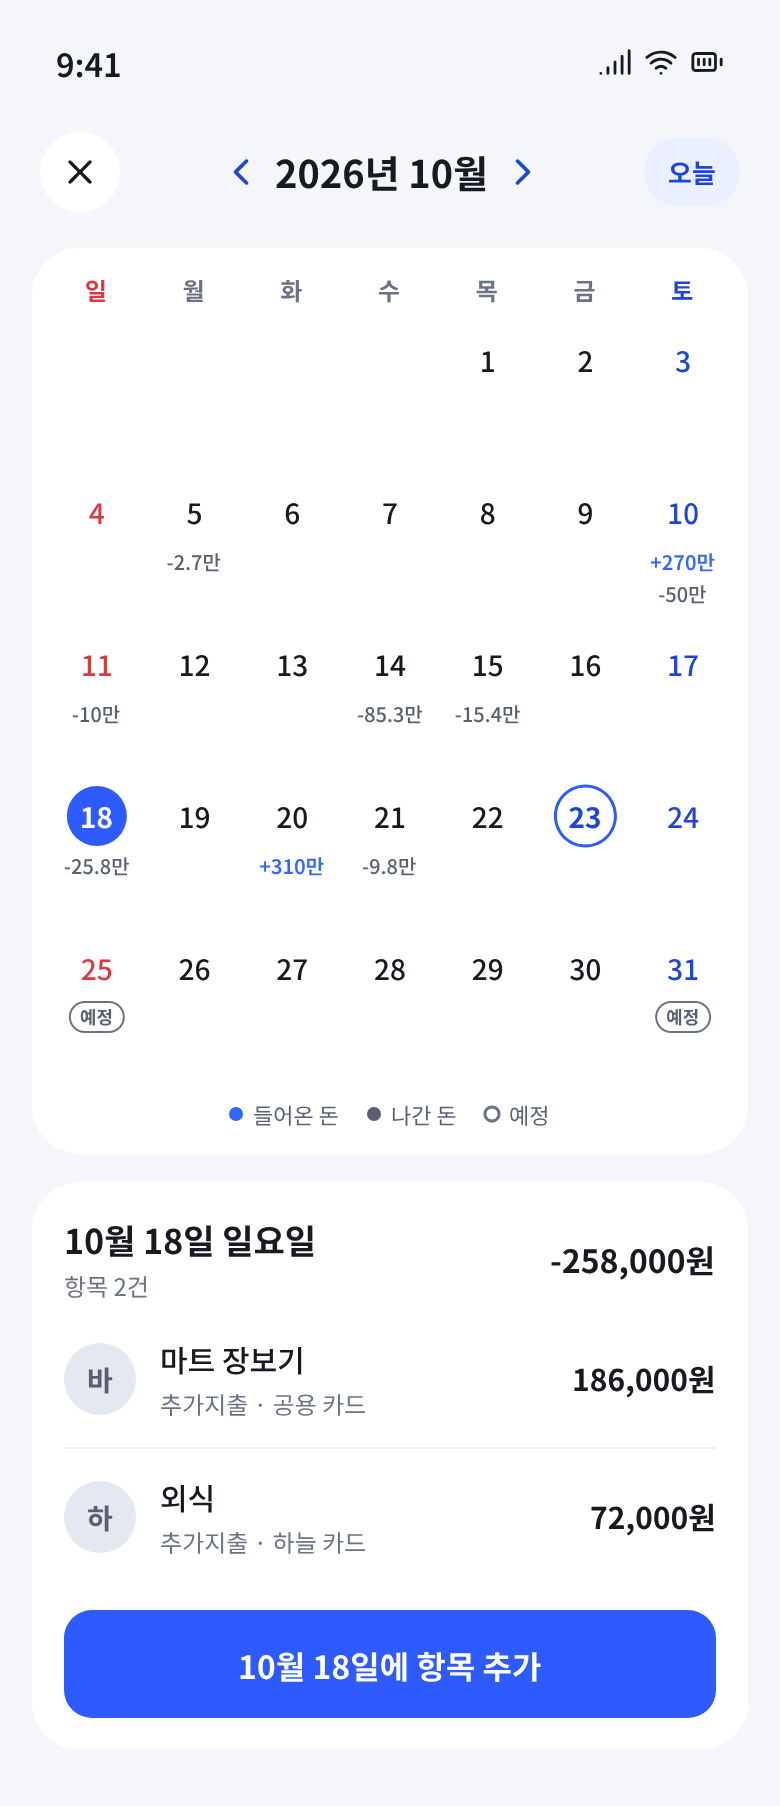
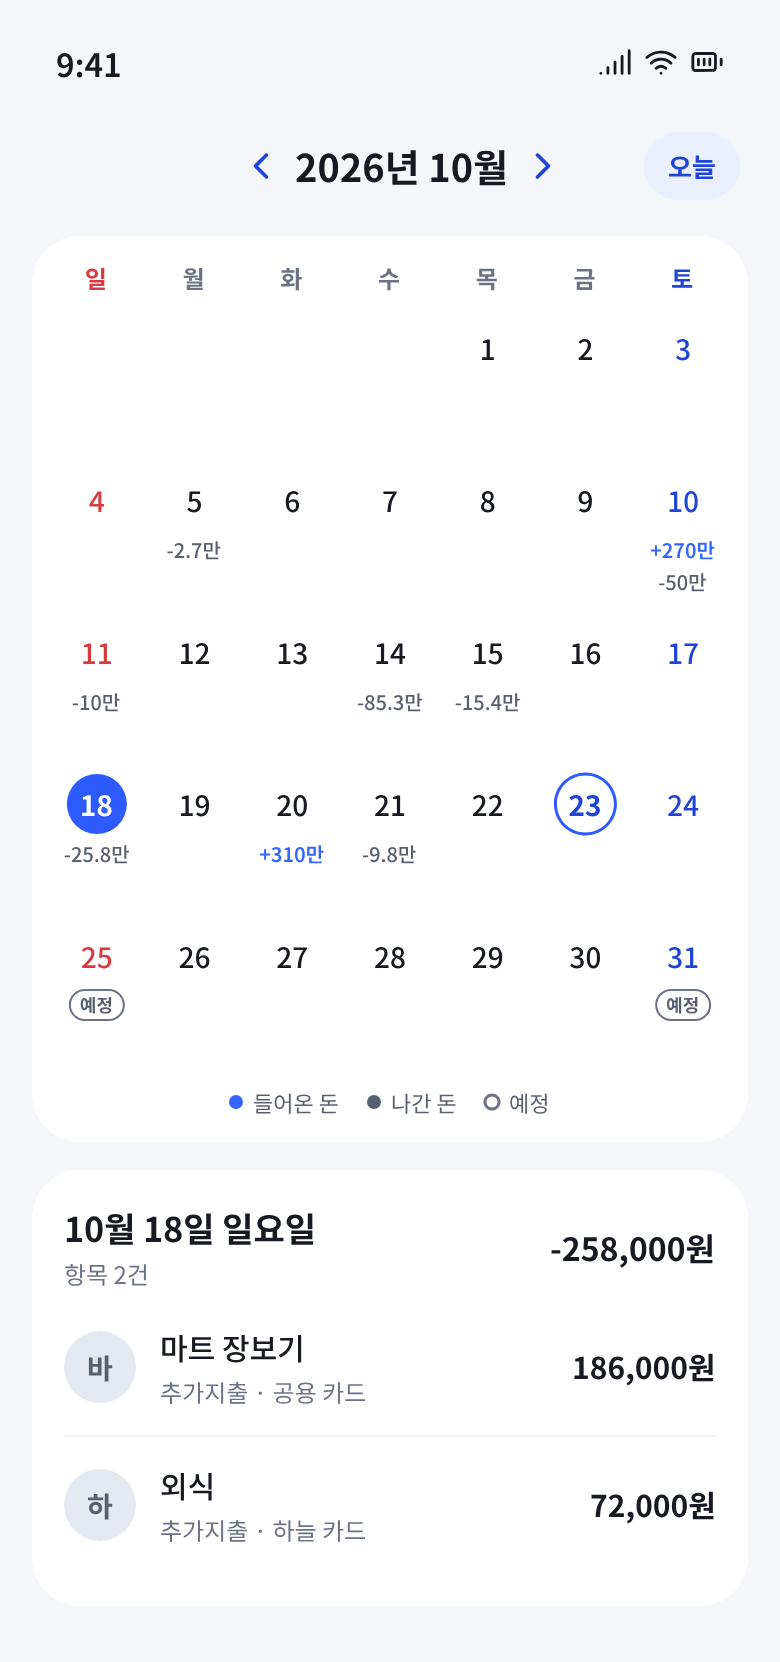
달력의 닫기·추가 단추를 빼고 빈 날 안내를 누르면 그날로 항목을 추가한다
- 닫기 단추 없이 보통 화면으로 열어 iOS는 왼쪽 끝 밀기, Android는 뒤로가기로 닫는다
- 아래 '그날에 항목 추가' 단추를 빼고, 항목이 없는 날은 '이 날 적은 항목이 없어요' 안내 전체가 그날 추가지출을 여는 단추다
- design/app.pen의 달력 세 장도 같게 고친다

diff --git a/lib/feature/entries/calendar_screen.dart b/lib/feature/entries/calendar_screen.dart
@@ -33,7 +33,8 @@ String calendarDayTitle(DateTime date) =>
 
 /// 달력 화면(design/app/08). 보고 있는 달의 항목을 날짜별로 보여주고, 고른 날의 항목을 아래(넓으면 옆)에 둔다.
 ///
-/// 항목을 누르면 고치는 화면, 아래 단추는 고른 날로 새 항목(추가지출)을 연다. 달을 옮기면 요약·항목 탭의 달도 같이 옮긴다.
+/// 항목을 누르면 고치는 화면, 항목이 없는 날은 빈 칸 안내를 누르면 그날로 새 항목(추가지출)을 연다.
+/// 달을 옮기면 요약·항목 탭의 달도 같이 옮긴다. 닫기 단추 없이 뒤로가기로 닫는다.
 /// 저장소를 부르는 동작이 없어 컨트롤러 없이 공급자만 읽고, 고른 날은 이 화면에서만 쓰는 상태라 위젯에 둔다.
 class CalendarScreen extends ConsumerStatefulWidget {
   const CalendarScreen({required this.openForm, super.key});
@@ -135,7 +136,7 @@ class _CalendarScreenState extends ConsumerState<CalendarScreen> {
   }
 }
 
-/// 닫기, 달 옮기기(달 이름을 누르면 달 고르기), 오늘.
+/// 달 옮기기(달 이름을 누르면 달 고르기)와 오늘. 달은 가운데에 둔다.
 class _CalendarTopBar extends StatelessWidget {
   const _CalendarTopBar({
     required this.month,
@@ -156,20 +157,13 @@ class _CalendarTopBar extends StatelessWidget {
     final theme = Theme.of(context);
     final scheme = theme.colorScheme;
     final arrowColor = context.appColors.accentText;
+    // 오른쪽 '오늘' 단추만큼 왼쪽도 비워 달을 가운데에 둔다.
+    const sideWidth = 64.0;
     return Padding(
       padding: const EdgeInsets.fromLTRB(16, 4, 16, 8),
       child: Row(
         children: [
-          IconButton(
-            key: const Key('calendar-close'),
-            tooltip: '닫기',
-            style: IconButton.styleFrom(
-              backgroundColor: scheme.surfaceContainerLowest,
-              fixedSize: const Size(40, 40),
-            ),
-            onPressed: () => Navigator.of(context).maybePop(),
-            icon: Icon(Icons.close, size: 20, color: scheme.onSurface),
-          ),
+          const SizedBox(width: sideWidth),
           Expanded(
             child: Row(
               mainAxisAlignment: MainAxisAlignment.center,
@@ -220,21 +214,24 @@ class _CalendarTopBar extends StatelessWidget {
               ],
             ),
           ),
-          TextButton(
-            key: const Key('calendar-today'),
-            style: TextButton.styleFrom(
-              backgroundColor: scheme.primaryContainer,
-              foregroundColor: scheme.onPrimaryContainer,
-              textStyle: const TextStyle(
-                fontSize: 13,
-                fontWeight: FontWeight.w700,
+          SizedBox(
+            width: sideWidth,
+            child: TextButton(
+              key: const Key('calendar-today'),
+              style: TextButton.styleFrom(
+                backgroundColor: scheme.primaryContainer,
+                foregroundColor: scheme.onPrimaryContainer,
+                textStyle: const TextStyle(
+                  fontSize: 13,
+                  fontWeight: FontWeight.w700,
+                ),
+                minimumSize: const Size(0, 36),
+                padding: const EdgeInsets.symmetric(horizontal: 14),
+                shape: const StadiumBorder(),
               ),
-              minimumSize: const Size(0, 36),
-              padding: const EdgeInsets.symmetric(horizontal: 14),
-              shape: const StadiumBorder(),
+              onPressed: onToday,
+              child: const Text('오늘'),
             ),
-            onPressed: onToday,
-            child: const Text('오늘'),
           ),
         ],
       ),
@@ -595,7 +592,7 @@ class _Legend extends StatelessWidget {
   }
 }
 
-/// 고른 날의 항목 목록과 그날로 항목 추가.
+/// 고른 날의 항목 목록. 항목이 없는 날은 안내 전체가 그날로 항목을 추가하는 단추다.
 class _DayPanel extends ConsumerWidget {
   const _DayPanel({
     required this.day,
@@ -681,26 +678,20 @@ class _DayPanel extends ConsumerWidget {
             ),
             if (rows.isEmpty)
               Padding(
-                key: const Key('calendar-day-empty'),
-                padding: const EdgeInsets.fromLTRB(0, 20, 0, 4),
-                child: Column(
-                  spacing: 10,
-                  children: [
-                    CircleAvatar(
-                      radius: 26,
-                      backgroundColor: scheme.primaryContainer,
-                      child: Icon(
-                        Icons.edit_calendar_outlined,
-                        color: scheme.onPrimaryContainer,
-                      ),
-                    ),
-                    Text(
-                      keepAll('이 날 적은 항목이 없어요'),
-                      style: theme.textTheme.bodyMedium?.copyWith(
-                        color: scheme.onSurfaceVariant,
-                      ),
-                    ),
-                  ],
+                padding: const EdgeInsets.only(top: 12),
+                child: _EmptyDay(
+                  onAdd: canWrite
+                      ? () => unawaited(
+                          openForm(
+                            context,
+                            EntryFormArgs.add(
+                              kind: EntryKind.extra,
+                              month: month,
+                              date: date,
+                            ),
+                          ),
+                        )
+                      : null,
                 ),
               )
             else
@@ -733,25 +724,52 @@ class _DayPanel extends ConsumerWidget {
                   ),
                 ),
               ),
-            if (canWrite)
-              Padding(
-                padding: const EdgeInsets.only(top: 12),
-                child: FilledButton(
-                  key: const Key('calendar-add'),
-                  onPressed: () => unawaited(
-                    openForm(
-                      context,
-                      EntryFormArgs.add(
-                        kind: EntryKind.extra,
-                        month: month,
-                        date: date,
-                      ),
-                    ),
-                  ),
-                  child: Text('${date.month}월 ${date.day}일에 항목 추가'),
+          ],
+        ),
+      ),
+    );
+  }
+}
+
+/// 항목이 없는 날의 안내. 적을 수 있으면 안내 전체가 그날로 새 항목(추가지출)을 여는 단추다.
+class _EmptyDay extends StatelessWidget {
+  const _EmptyDay({required this.onAdd});
+
+  /// null이면 누를 수 없다(보기 전용).
+  final VoidCallback? onAdd;
+
+  @override
+  Widget build(BuildContext context) {
+    final theme = Theme.of(context);
+    final scheme = theme.colorScheme;
+    return Semantics(
+      button: onAdd != null,
+      hint: onAdd == null ? null : '이 날로 항목 추가',
+      child: InkWell(
+        key: const Key('calendar-day-empty'),
+        onTap: onAdd,
+        borderRadius: BorderRadius.circular(16),
+        child: Padding(
+          padding: const EdgeInsets.symmetric(vertical: 16),
+          child: Column(
+            spacing: 10,
+            children: [
+              CircleAvatar(
+                radius: 26,
+                backgroundColor: scheme.primaryContainer,
+                child: Icon(
+                  Icons.edit_calendar_outlined,
+                  color: scheme.onPrimaryContainer,
                 ),
               ),
-          ],
+              Text(
+                keepAll('이 날 적은 항목이 없어요'),
+                style: theme.textTheme.bodyMedium?.copyWith(
+                  color: scheme.onSurfaceVariant,
+                ),
+              ),
+            ],
+          ),
         ),
       ),
     );

diff --git a/test/feature/entries/calendar_screen_test.dart b/test/feature/entries/calendar_screen_test.dart
@@ -125,7 +125,7 @@ void main() {
       expect(find.byKey(const Key('calendar-day-empty')), findsOneWidget);
     });
 
-    testWidgets('항목 탭에서도 달 이름으로 달력을 열고, X를 누르면 닫힌다', (tester) async {
+    testWidgets('항목 탭에서도 달 이름으로 달력을 열고, 뒤로 가면 닫힌다', (tester) async {
       await pumpApp(
         tester,
         auth: FakeAuthRepository(signedIn: me),
@@ -137,8 +137,10 @@ void main() {
       await tester.tap(find.byKey(const Key('open-calendar')));
       await settleRoute(tester);
       expect(find.byType(CalendarScreen), findsOneWidget);
+      // 닫기 단추가 없다. Android 뒤로가기(iOS는 왼쪽 끝 밀기)로 닫는다.
+      expect(find.byKey(const Key('calendar-close')), findsNothing);
 
-      await tester.tap(find.byKey(const Key('calendar-close')));
+      await tester.binding.handlePopRoute();
       await settleRoute(tester);
 
       expect(find.byType(CalendarScreen), findsNothing);
@@ -246,15 +248,17 @@ void main() {
       expect(find.text('2026년 10월 18일'), findsOneWidget);
     });
 
-    testWidgets('그날로 항목 추가는 추가지출을 그 날짜로 열고, 저장하면 그날에 보인다', (tester) async {
+    testWidgets('항목이 없는 날은 안내를 누르면 그 날짜로 추가지출을 열고, 저장하면 그날에 보인다', (
+      tester,
+    ) async {
       final entries = await openCalendar(tester);
-      await tester.tap(day(18));
+      await tester.tap(day(16));
       await settle(tester);
 
-      await tapShown(tester, find.byKey(const Key('calendar-add')));
+      await tapShown(tester, find.byKey(const Key('calendar-day-empty')));
       await settleRoute(tester);
       expect(find.text('쓴 날'), findsOneWidget);
-      expect(find.text('2026년 10월 18일'), findsOneWidget);
+      expect(find.text('2026년 10월 16일'), findsOneWidget);
       await tester.enterText(find.byKey(const Key('entry-amount')), '5000');
       await tester.enterText(find.byKey(const Key('entry-title')), '간식');
       await tapShown(tester, find.byKey(const Key('entry-method-p-shared')));
@@ -264,12 +268,22 @@ void main() {
       final added = entries.added.single;
       expect(added.month, october);
       expect(added.draft.kind, EntryKind.extra);
-      expect(added.draft.date, DateTime(2026, 10, 18));
+      expect(added.draft.date, DateTime(2026, 10, 16));
       expect(find.byType(CalendarScreen), findsOneWidget);
-      expect(find.text('항목 3건'), findsOneWidget);
+      expect(find.text('항목 1건'), findsOneWidget);
+      expect(find.byKey(const Key('calendar-day-empty')), findsNothing);
     });
 
-    testWidgets('보기 전용은 항목 추가 단추가 없고 항목을 눌러도 열리지 않는다', (tester) async {
+    testWidgets('항목이 있는 날에는 따로 추가 단추가 없다', (tester) async {
+      await openCalendar(tester);
+      await tester.tap(day(18));
+      await settle(tester);
+
+      expect(find.byKey(const Key('calendar-day-empty')), findsNothing);
+      expect(find.byType(FilledButton), findsNothing);
+    });
+
+    testWidgets('보기 전용은 빈 날 안내와 항목을 눌러도 입력 화면이 열리지 않는다', (tester) async {
       await openCalendar(
         tester,
         ledger: const Ledger(
@@ -279,10 +293,14 @@ void main() {
           roles: {'me': MemberRole.viewer},
         ),
       );
+      await tester.tap(day(16));
+      await settle(tester);
+      await tapShown(tester, find.byKey(const Key('calendar-day-empty')));
+      await settleRoute(tester);
+      expect(find.byType(EntryFormScreen), findsNothing);
+
       await tester.tap(day(18));
       await settle(tester);
-
-      expect(find.byKey(const Key('calendar-add')), findsNothing);
       await tapShown(tester, find.byKey(const ValueKey('calendar-entry-mart')));
       await settleRoute(tester);
       expect(find.byType(EntryFormScreen), findsNothing);
@@ -315,7 +333,7 @@ void main() {
 
       expect(find.text('2026년 3월'), findsOneWidget);
       expect(dayTitle(tester), '3월 1일 일요일');
-      await tester.tap(find.byKey(const Key('calendar-close')));
+      await tester.binding.handlePopRoute();
       await settleRoute(tester);
       expect(textOf(tester, const Key('month-title')), '2026년 3월');
     });

diff --git a/lib/router.dart b/lib/router.dart
@@ -46,6 +46,7 @@ abstract final class Routes {
   static const template = '/template';
 
   /// 달력. 요약·항목 탭 머리말의 달 이름으로 열고, 입력 화면처럼 탭 막대를 가리는 전체 화면이다.
+  /// 닫기 단추 없이 뒤로가기(iOS는 왼쪽 끝 밀기)로 닫는다.
   static const calendar = '/calendar';
 
   /// 설정 탭 안의 분류·결제수단 목록, 휴지통, 변경 기록. 탭 막대는 그대로 보인다.
@@ -221,11 +222,12 @@ final routerProvider = Provider<GoRouter>((ref) {
           },
         ),
       ),
+      // 닫기 단추가 없어서 보통 화면으로 연다. iOS는 왼쪽 끝을 밀어서, Android는 뒤로가기로 닫는다
+      // (fullscreenDialog면 iOS에서 밀어 닫을 수 없다).
       GoRoute(
         path: Routes.calendar,
         pageBuilder: (_, state) => MaterialPage(
           key: state.pageKey,
-          fullscreenDialog: true,
           child: const CalendarScreen(openForm: _openEntryForm),
         ),
       ),
